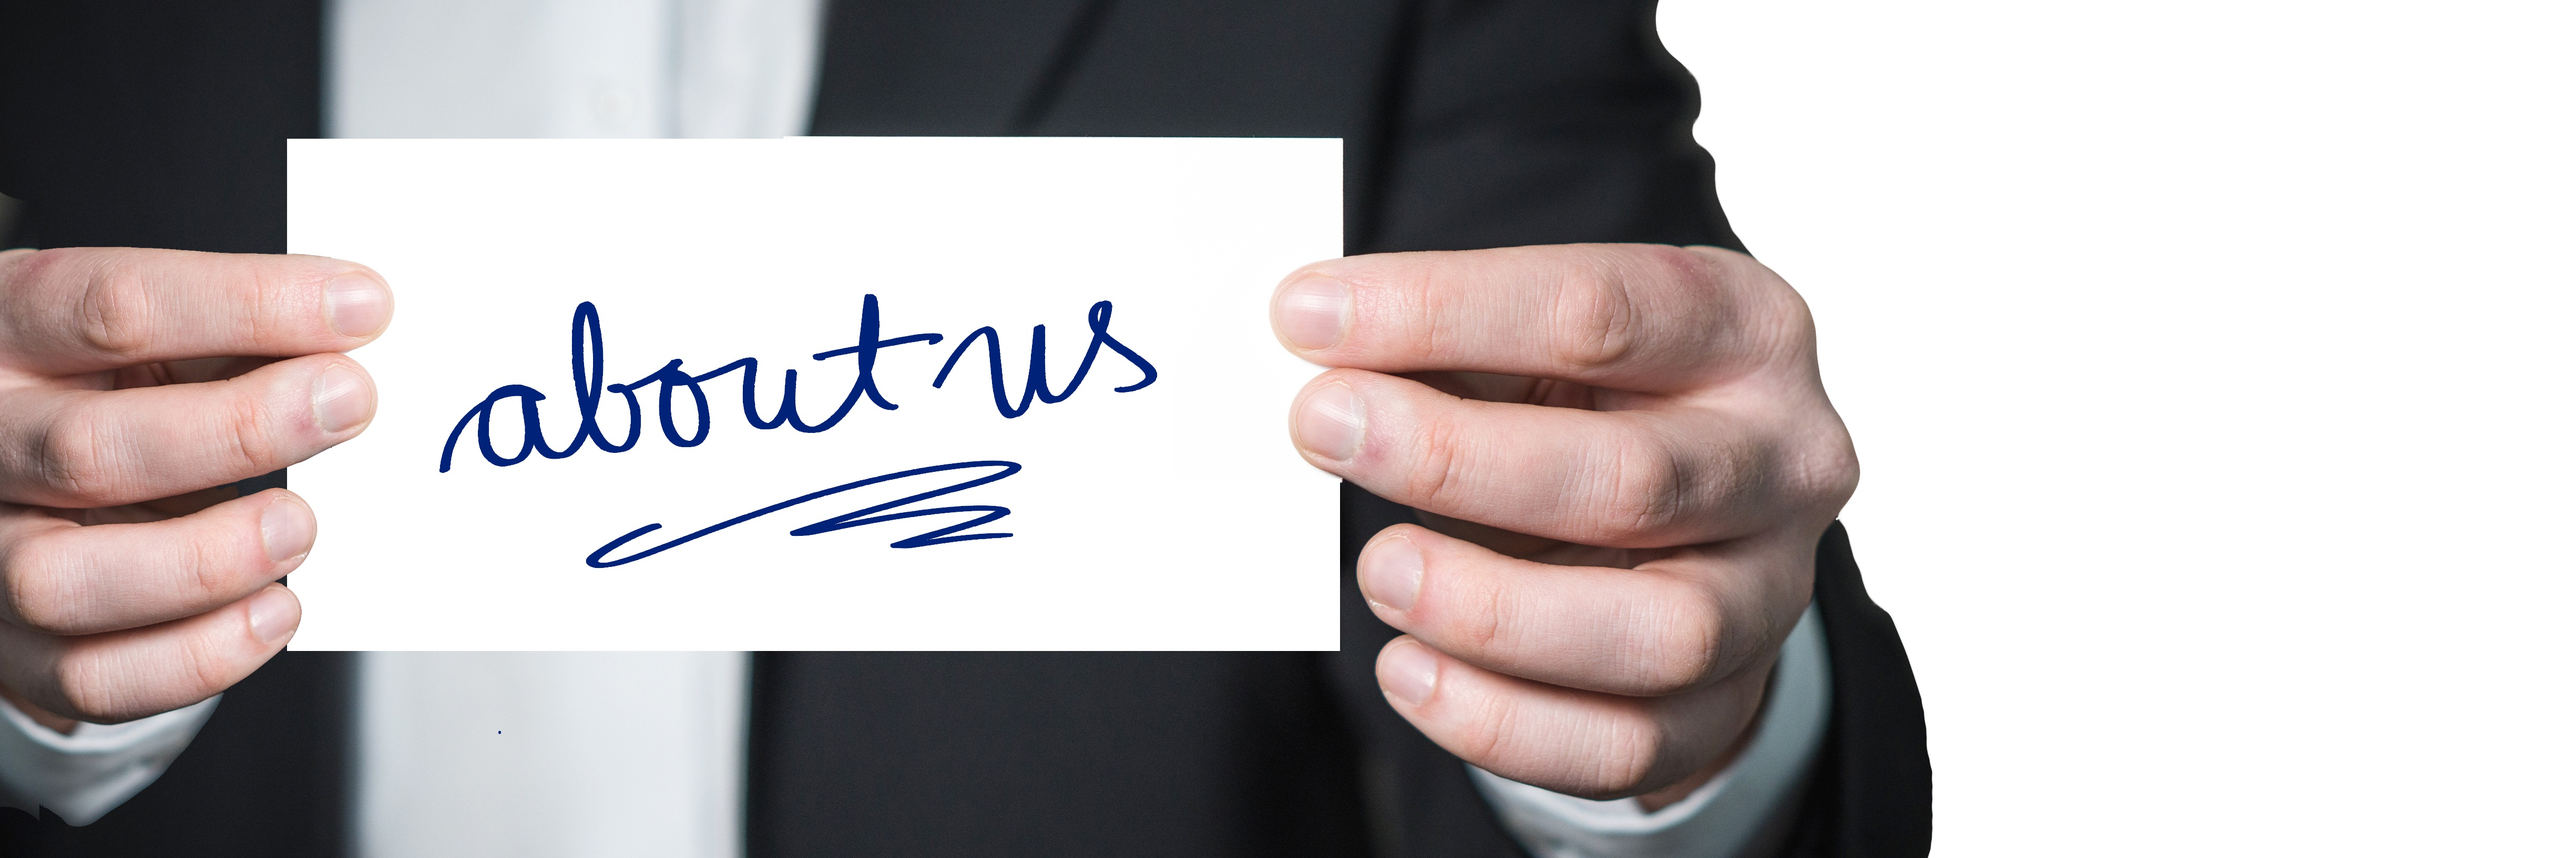
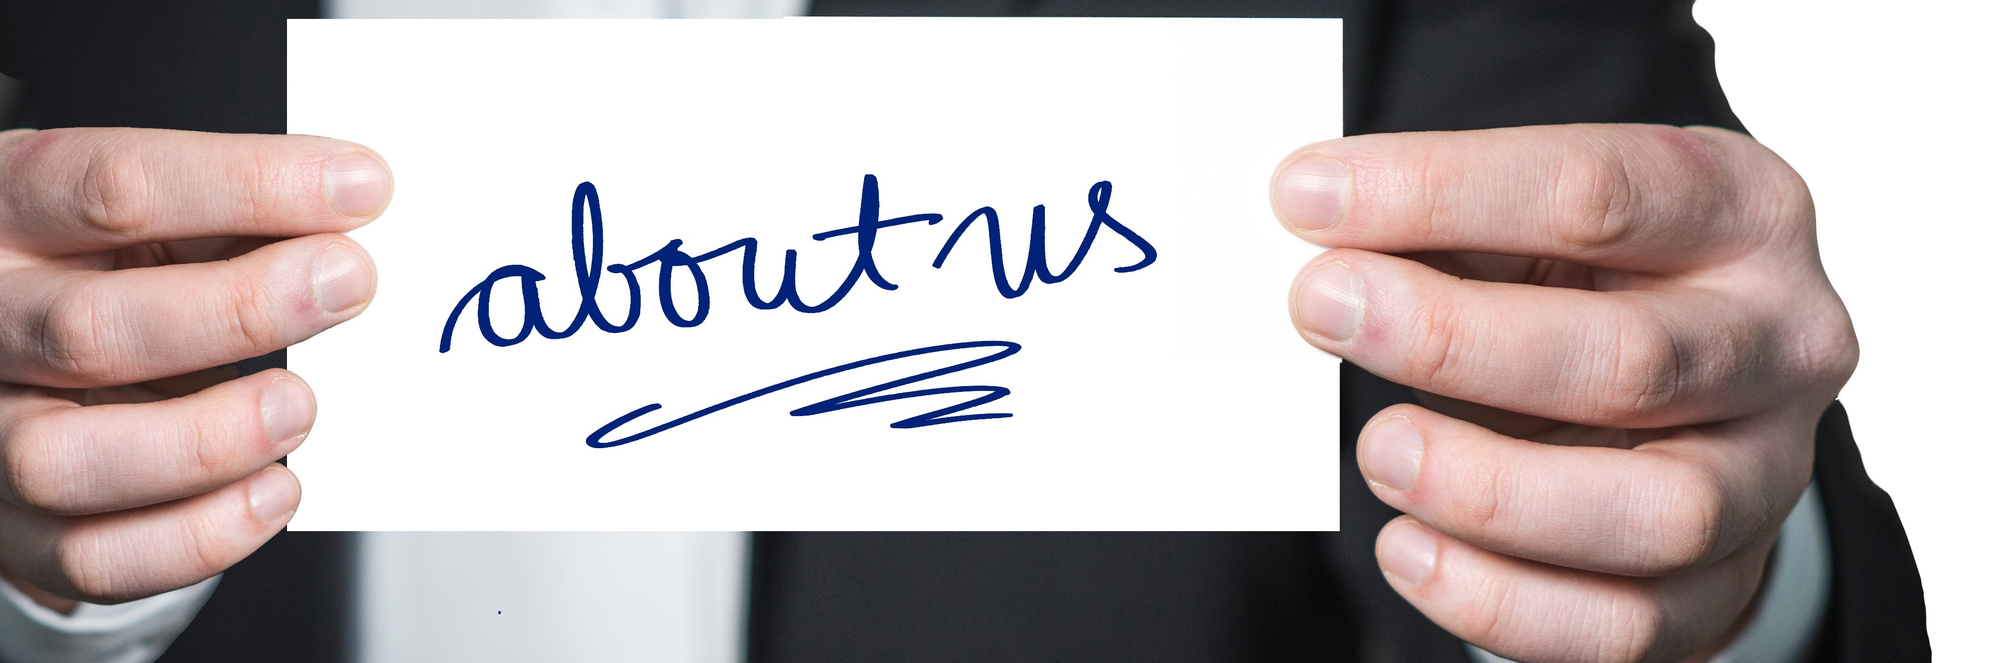
about-us complete

diff --git a/index_agency.html b/index_agency.html
@@ -177,17 +177,13 @@
           </div>
         </section>
 		
-			<div class="row quote1">
-				<div class="col-md-4 col-sm-4 col-xs-4 col-lg-4">
-				</div>
-				<div class="col-md-8 col-xs-8 col-sm-8 col-lg-8">
-					<blockquote>We develop for people who want more...</blockquote>
-				</div>
-			</div>
 		
         <section class="module pt-0 pb-0" id="about">
+          <center>
+          <blockquote>We develop for people who want more...</blockquote>
+          </center>
           <div class="row position-relative m-0">
-            <div class="col-xs-12 col-md-6 side-image" data-background="assets/images/about-main.jpeg"></div>
+            <div class="col-xs-12 col-md-6 side-image" data-background="assets/images/abt-main.jpeg"></div>
             <div class="col-xs-12 col-md-6 col-md-offset-6 side-image-text">
               <div class="row">
                 <div class="col-sm-12">

diff --git a/about2.html b/about2.html
@@ -146,9 +146,13 @@
           </div>
         </section>
 		
+
         <section class="module pt-0 pb-0" id="about">
+        	<center>
+        	<blockquote>We develop for people who want more...</blockquote>
+        	</center>
           <div class="row position-relative m-0">
-            <div class="col-xs-12 col-md-6 side-image" data-background="assets/images/about-main.jpeg"></div>
+            <div class="col-xs-12 col-md-6 side-image" data-background="assets/images/abt-main.jpeg"></div>
             <div class="col-xs-12 col-md-6 col-md-offset-6 side-image-text">
               <div class="row">
                 <div class="col-sm-12">
